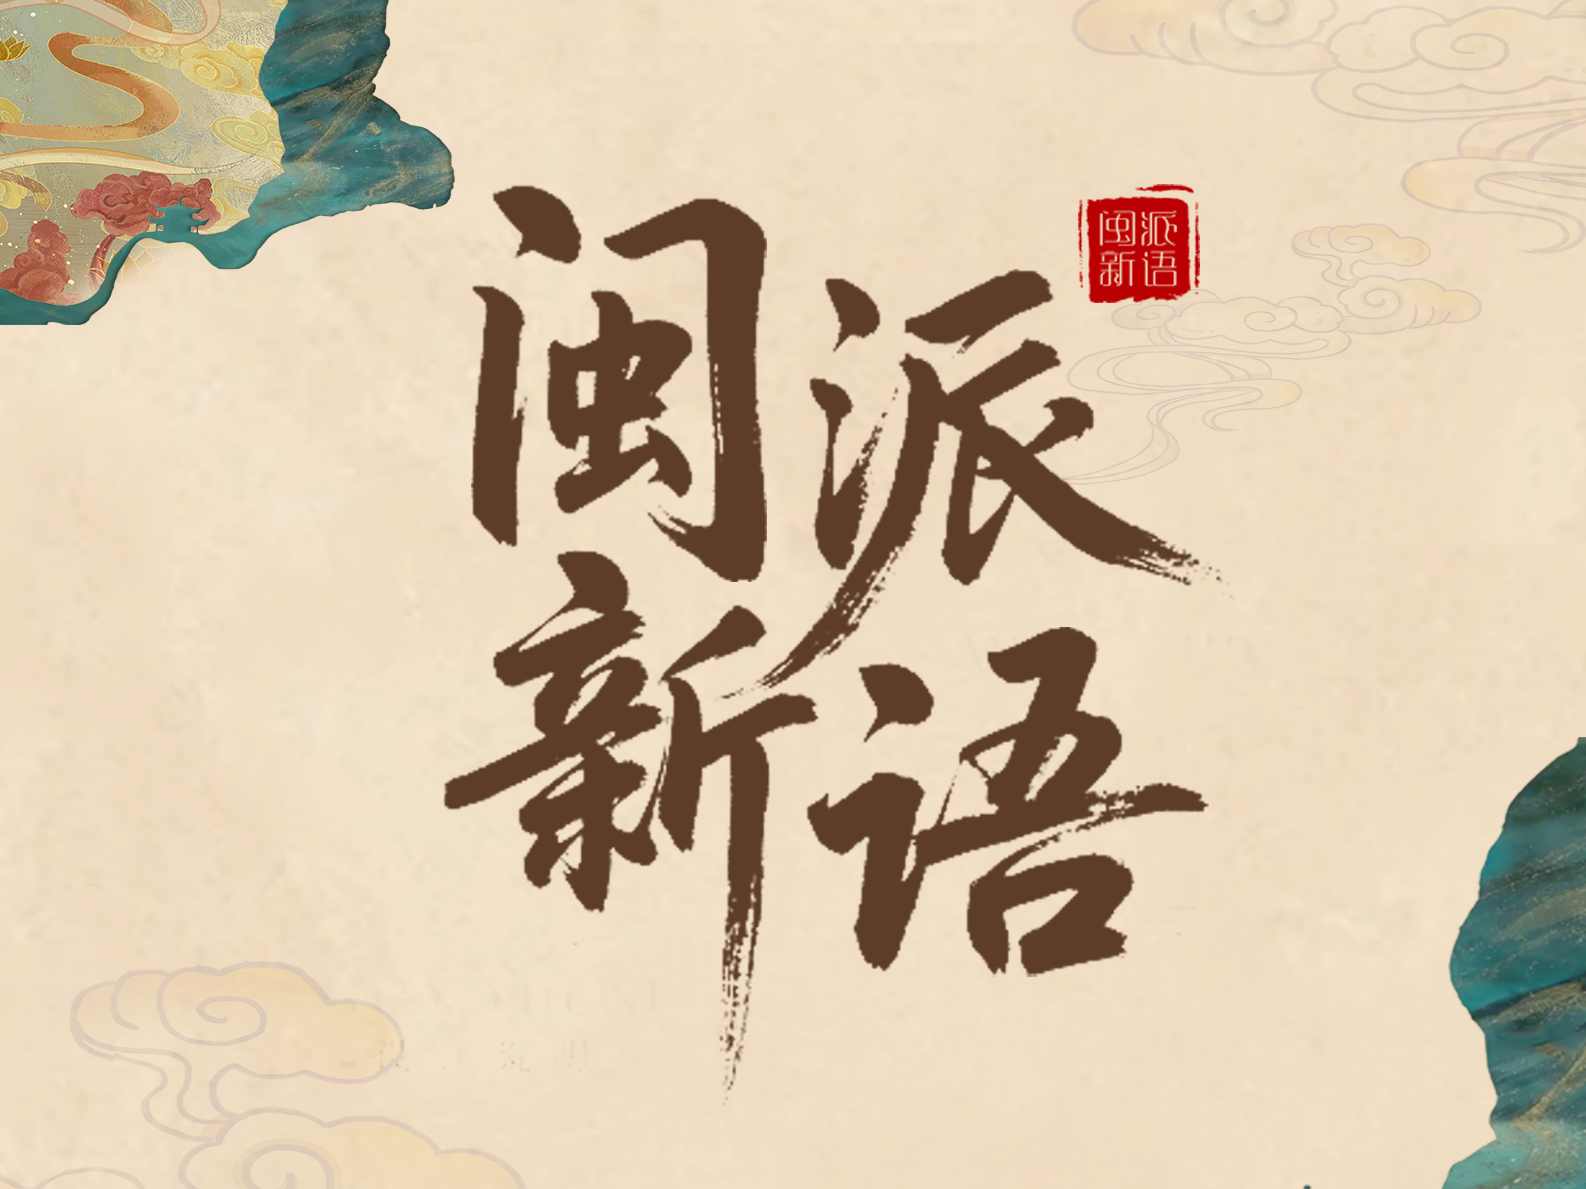
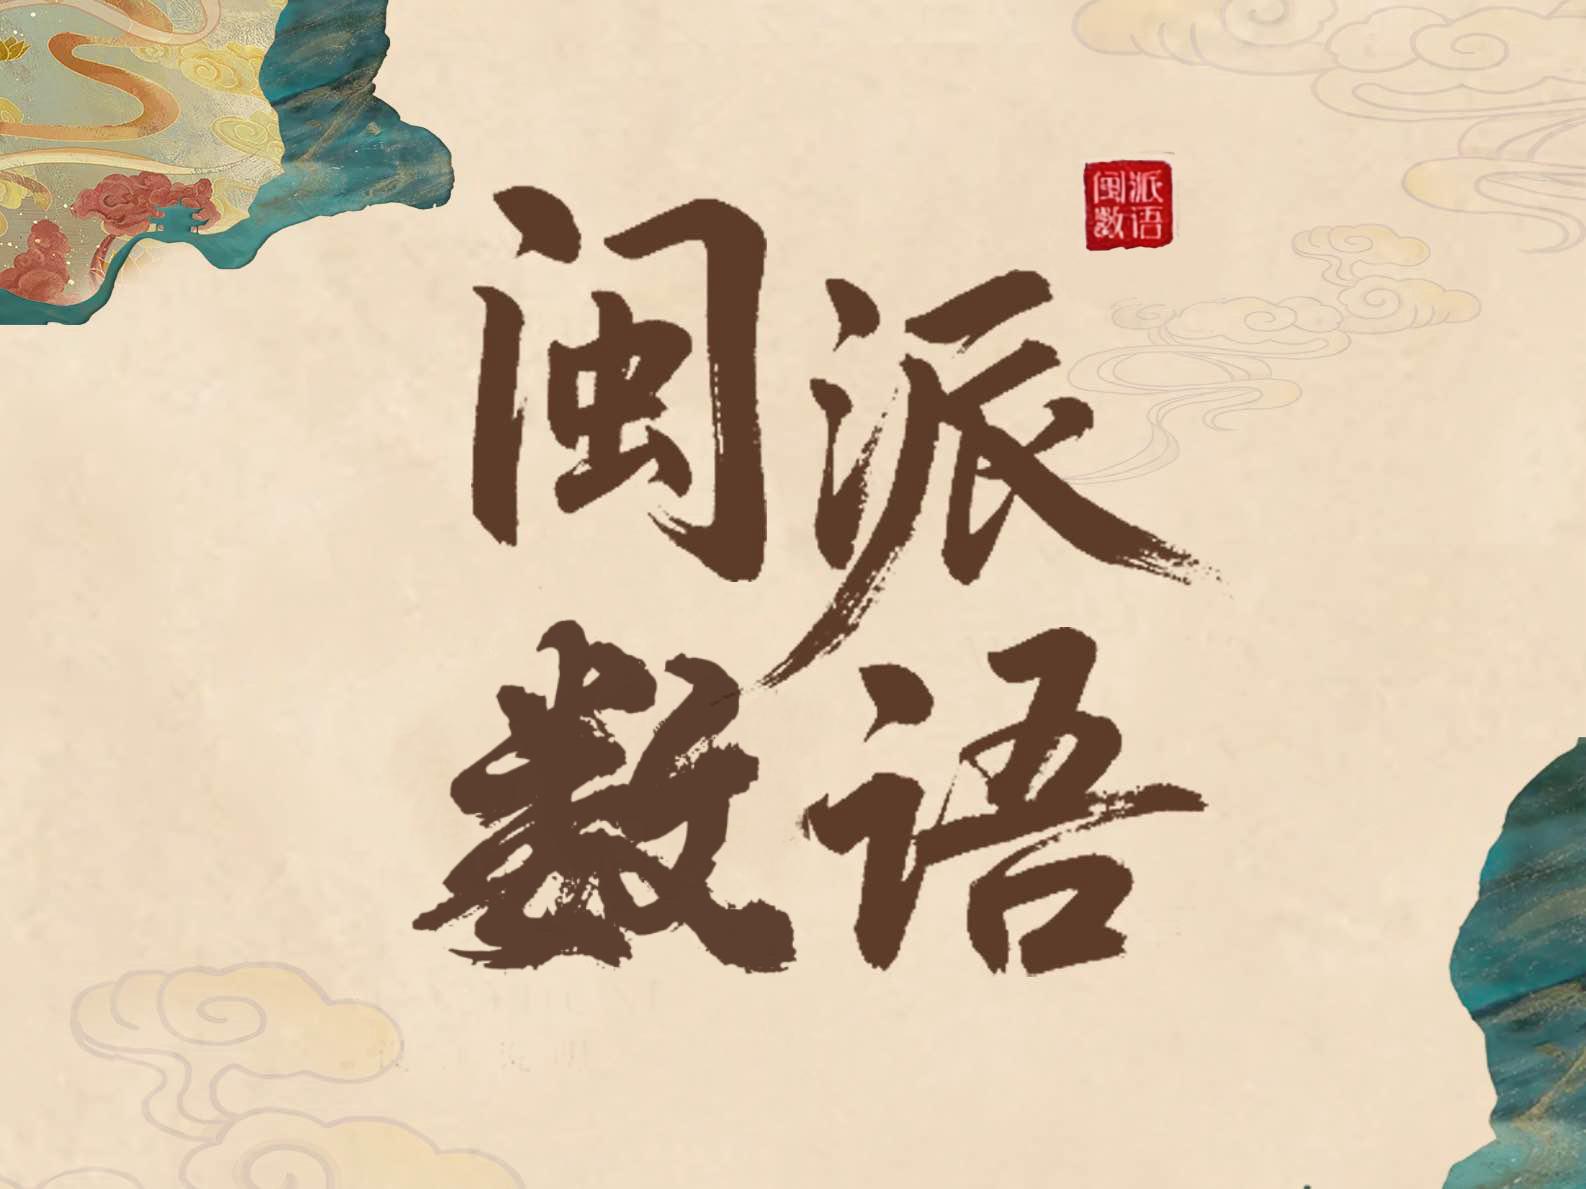
修改了几处图片

diff --git a/frontend/src/components/Quiz.tsx b/frontend/src/components/Quiz.tsx
@@ -88,7 +88,12 @@ const Quiz: React.FC<QuizProps> = ({ cityName: propCityName, onComplete, onBack 
 
       setQuestions(selectedQuestions);
       setAnswers(new Array(selectedQuestions.length).fill(''));
-      setQuizResults(new Array(selectedQuestions.length).fill(null));
+      setQuizResults([]);
+      console.log('🎯 [初始化] 题目加载完成:', {
+        totalQuestions: selectedQuestions.length,
+        answersLength: selectedQuestions.length,
+        quizResultsLength: 0
+      });
     } catch (err) {
       console.error('获取题目错误:', err);
       setError(err instanceof Error ? err.message : '获取题目失败');
@@ -126,8 +131,12 @@ const Quiz: React.FC<QuizProps> = ({ cityName: propCityName, onComplete, onBack 
       newAnswers[currentQuestionIndex] = answer;
       setAnswers(newAnswers);
 
-      // 更新结果数组
+      // 更新结果数组 - 确保数组长度与题目数量一致
       const newResults = [...quizResults];
+      // 确保数组有足够的长度，至少等于题目总数
+      while (newResults.length < questions.length) {
+        newResults.push(null as any);
+      }
       newResults[currentQuestionIndex] = {
         questionId: questions[currentQuestionIndex].id,
         userAnswer: answer,
@@ -136,6 +145,15 @@ const Quiz: React.FC<QuizProps> = ({ cityName: propCityName, onComplete, onBack 
         questionText: questions[currentQuestionIndex].question_text
       };
       setQuizResults(newResults);
+
+      console.log(`✅ [答案验证] 第${currentQuestionIndex + 1}题验证完成:`, {
+        questionId: questions[currentQuestionIndex].id,
+        userAnswer: answer,
+        correctAnswer: result.correct_answer,
+        isCorrect: correct,
+        quizResultsLength: newResults.length,
+        validResultsCount: newResults.filter(r => r && r.isCorrect === true).length
+      });
 
       // 显示反馈
       setIsCorrect(correct);
@@ -181,9 +199,23 @@ const Quiz: React.FC<QuizProps> = ({ cityName: propCityName, onComplete, onBack 
   };
 
   const finishQuiz = () => {
-    // 计算最终得分
-    const correctCount = quizResults.filter(result => result?.isCorrect).length;
+    // 计算最终得分 - 确保只统计有效的结果
+    const validResults = quizResults.filter(result => result && typeof result.isCorrect === 'boolean');
+    const correctCount = validResults.filter(result => result.isCorrect).length;
     const totalQuestions = questions.length;
+
+    console.log('🏁 [完成答题] 最终得分计算:', {
+      totalQuestions,
+      quizResultsLength: quizResults.length,
+      validResultsCount: validResults.length,
+      correctCount,
+      quizResults: quizResults.map((r, i) => ({
+        index: i,
+        isCorrect: r?.isCorrect,
+        userAnswer: r?.userAnswer,
+        correctAnswer: r?.correctAnswer
+      }))
+    });
 
     // 保存到localStorage
     const quizData = {

diff --git a/frontend/public/index.html b/frontend/public/index.html
@@ -7,11 +7,11 @@
     <meta name="theme-color" content="#8B4513" />
     <meta
       name="description"
-      content="闽派新语"
+      content="闽派数语"
     />
     <link rel="apple-touch-icon" href="http://localhost:5000/static/image/logo.png" />
     <link rel="manifest" href="%PUBLIC_URL%/manifest.json" />
-    <title>闽派新语</title>
+    <title>闽派数语</title>
   </head>
   <body>
     <noscript>You need to enable JavaScript to run this app.</noscript>

diff --git a/frontend/src/components/Home.tsx b/frontend/src/components/Home.tsx
@@ -32,7 +32,7 @@ const Home: React.FC<HomeProps> = ({ user }) => {
       {/* 内容区域 */}
       <div className="home-content">
         <div className="welcome-section">
-          <h1>欢迎来到闽派新语</h1>
+          <h1>欢迎来到闽派数语</h1>
           {user && (
             <p className="welcome-user">
               您好，{user.username}！欢迎体验我们的文化学习平台。

diff --git a/miniprogram/src/pages/index/index.tsx b/miniprogram/src/pages/index/index.tsx
@@ -22,7 +22,7 @@ export default function Index () {
   return (
     <View className='index'>
       <WebView
-        src='https://frisk239.xyz/'
+        src='http://43.142.143.15/'
         onMessage={handleMessage}
         onLoad={handleLoad}
         onError={handleError}
